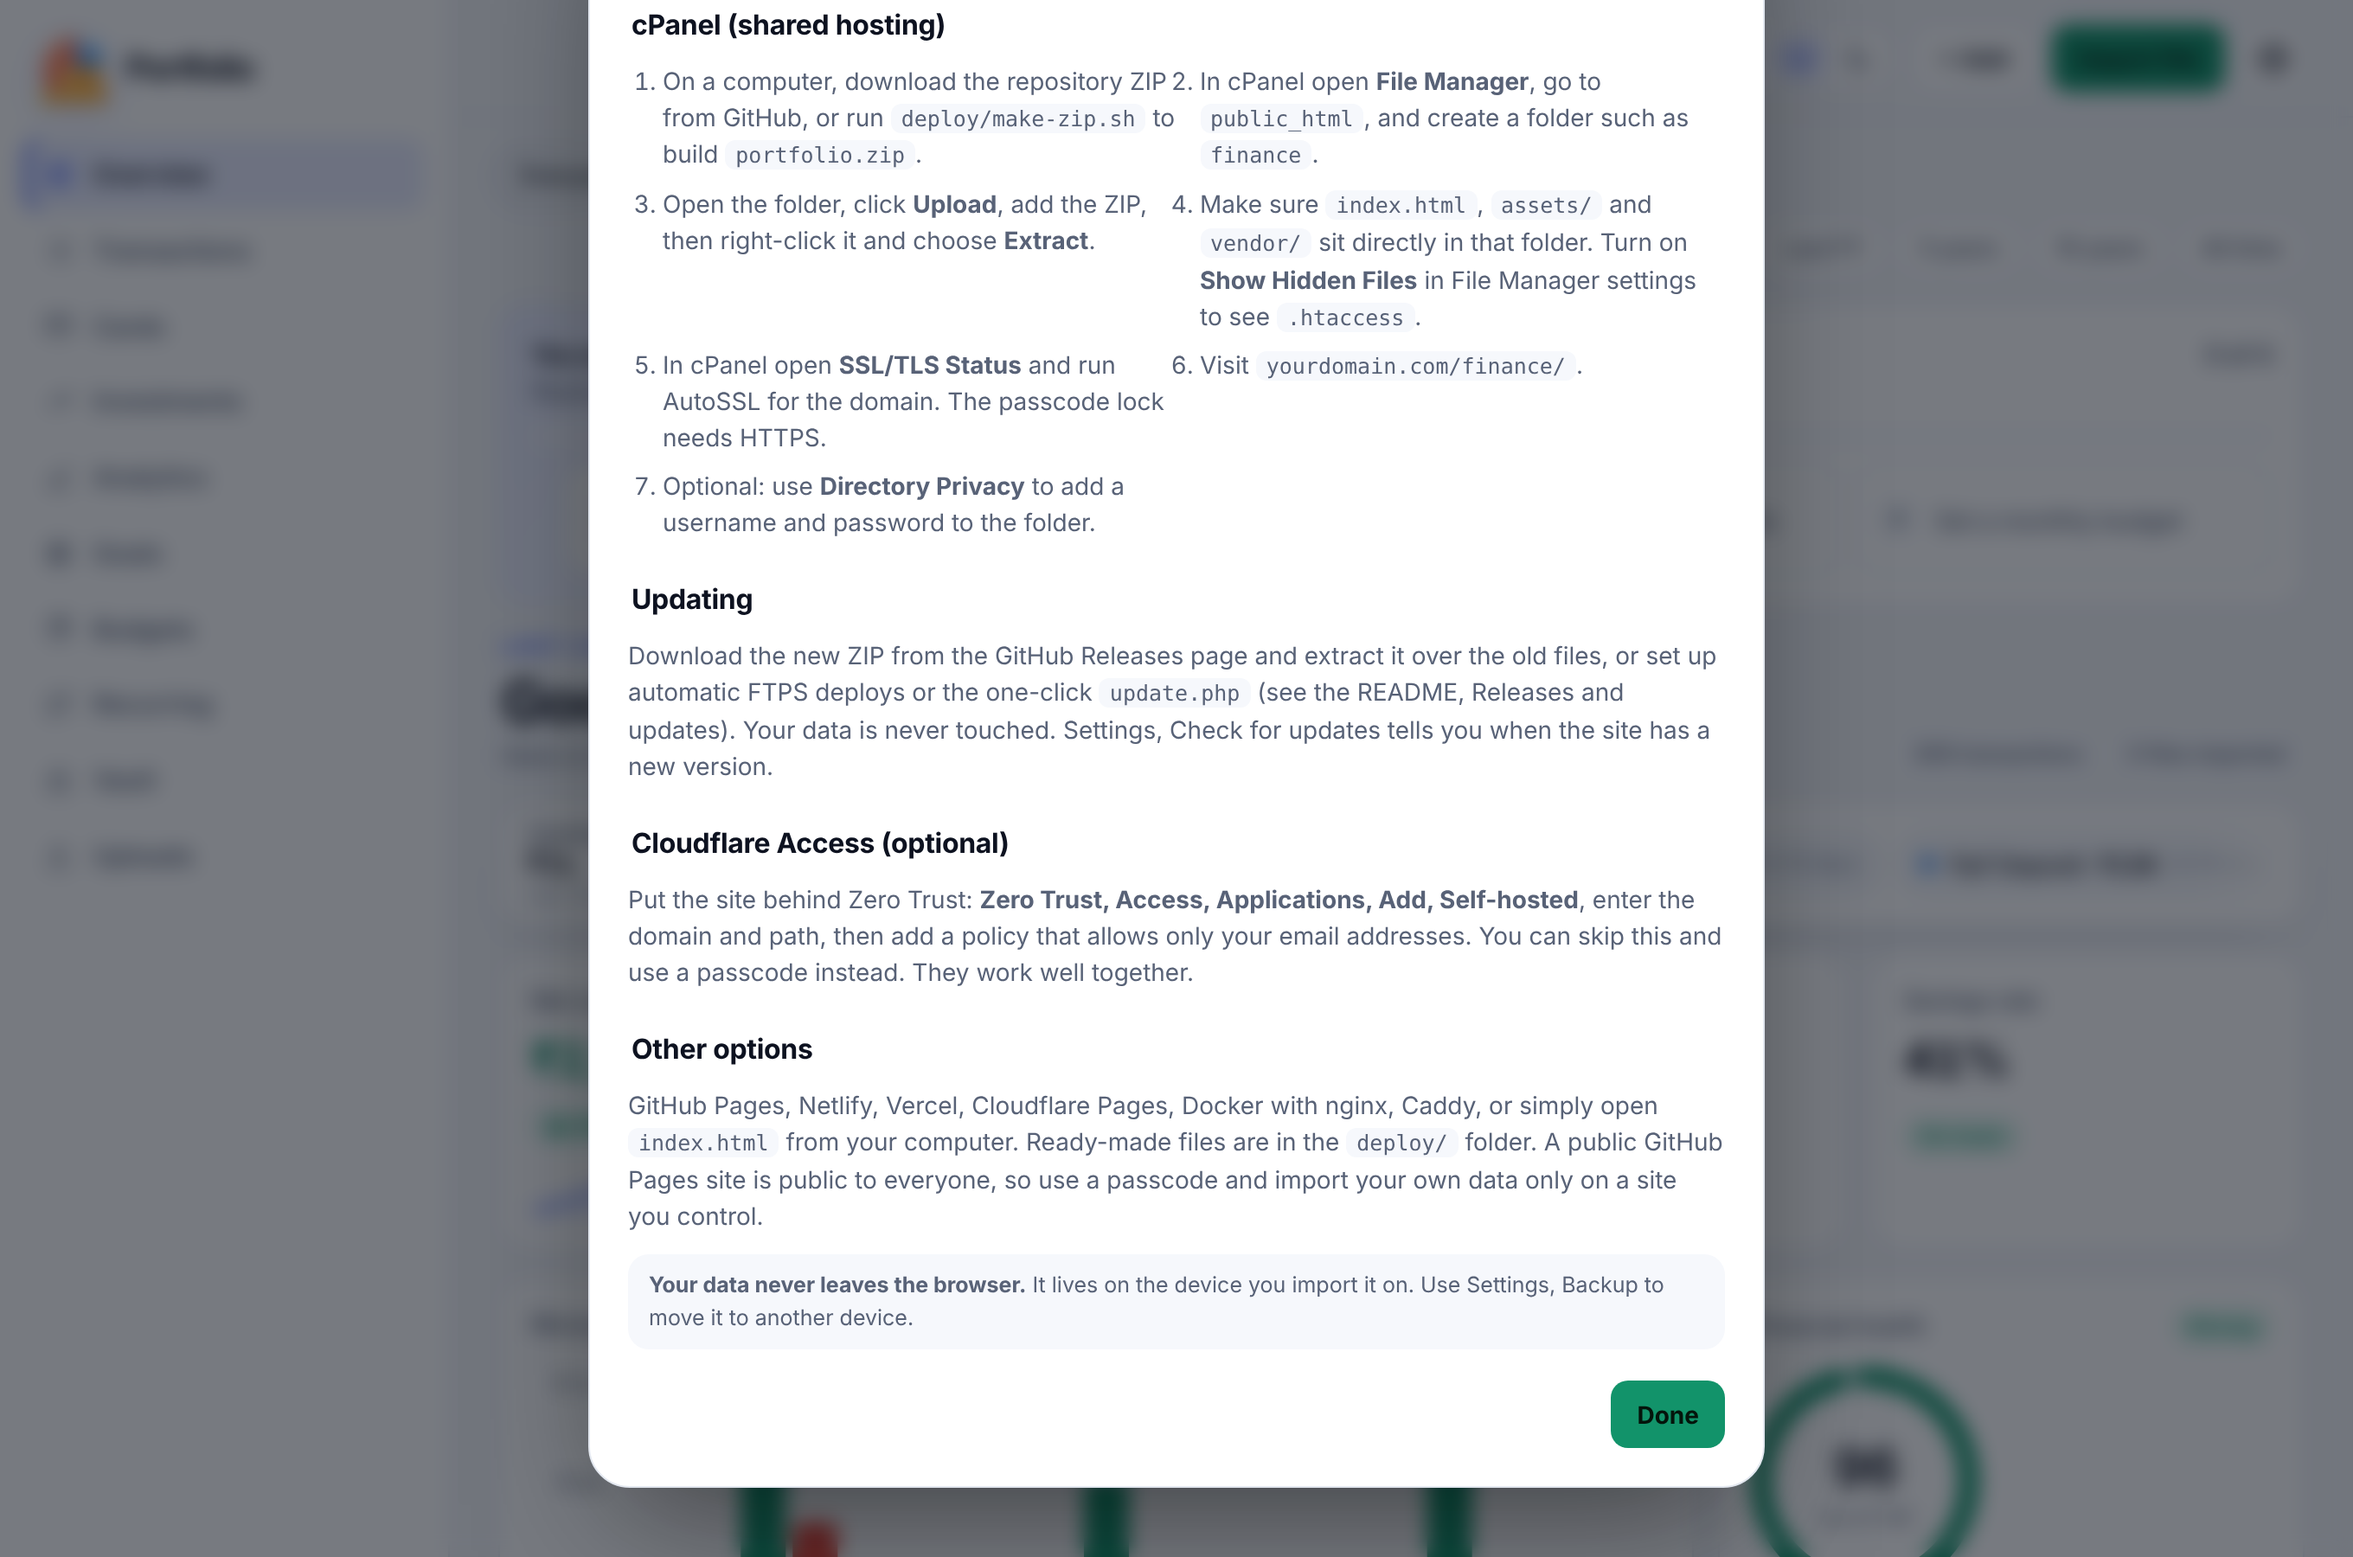
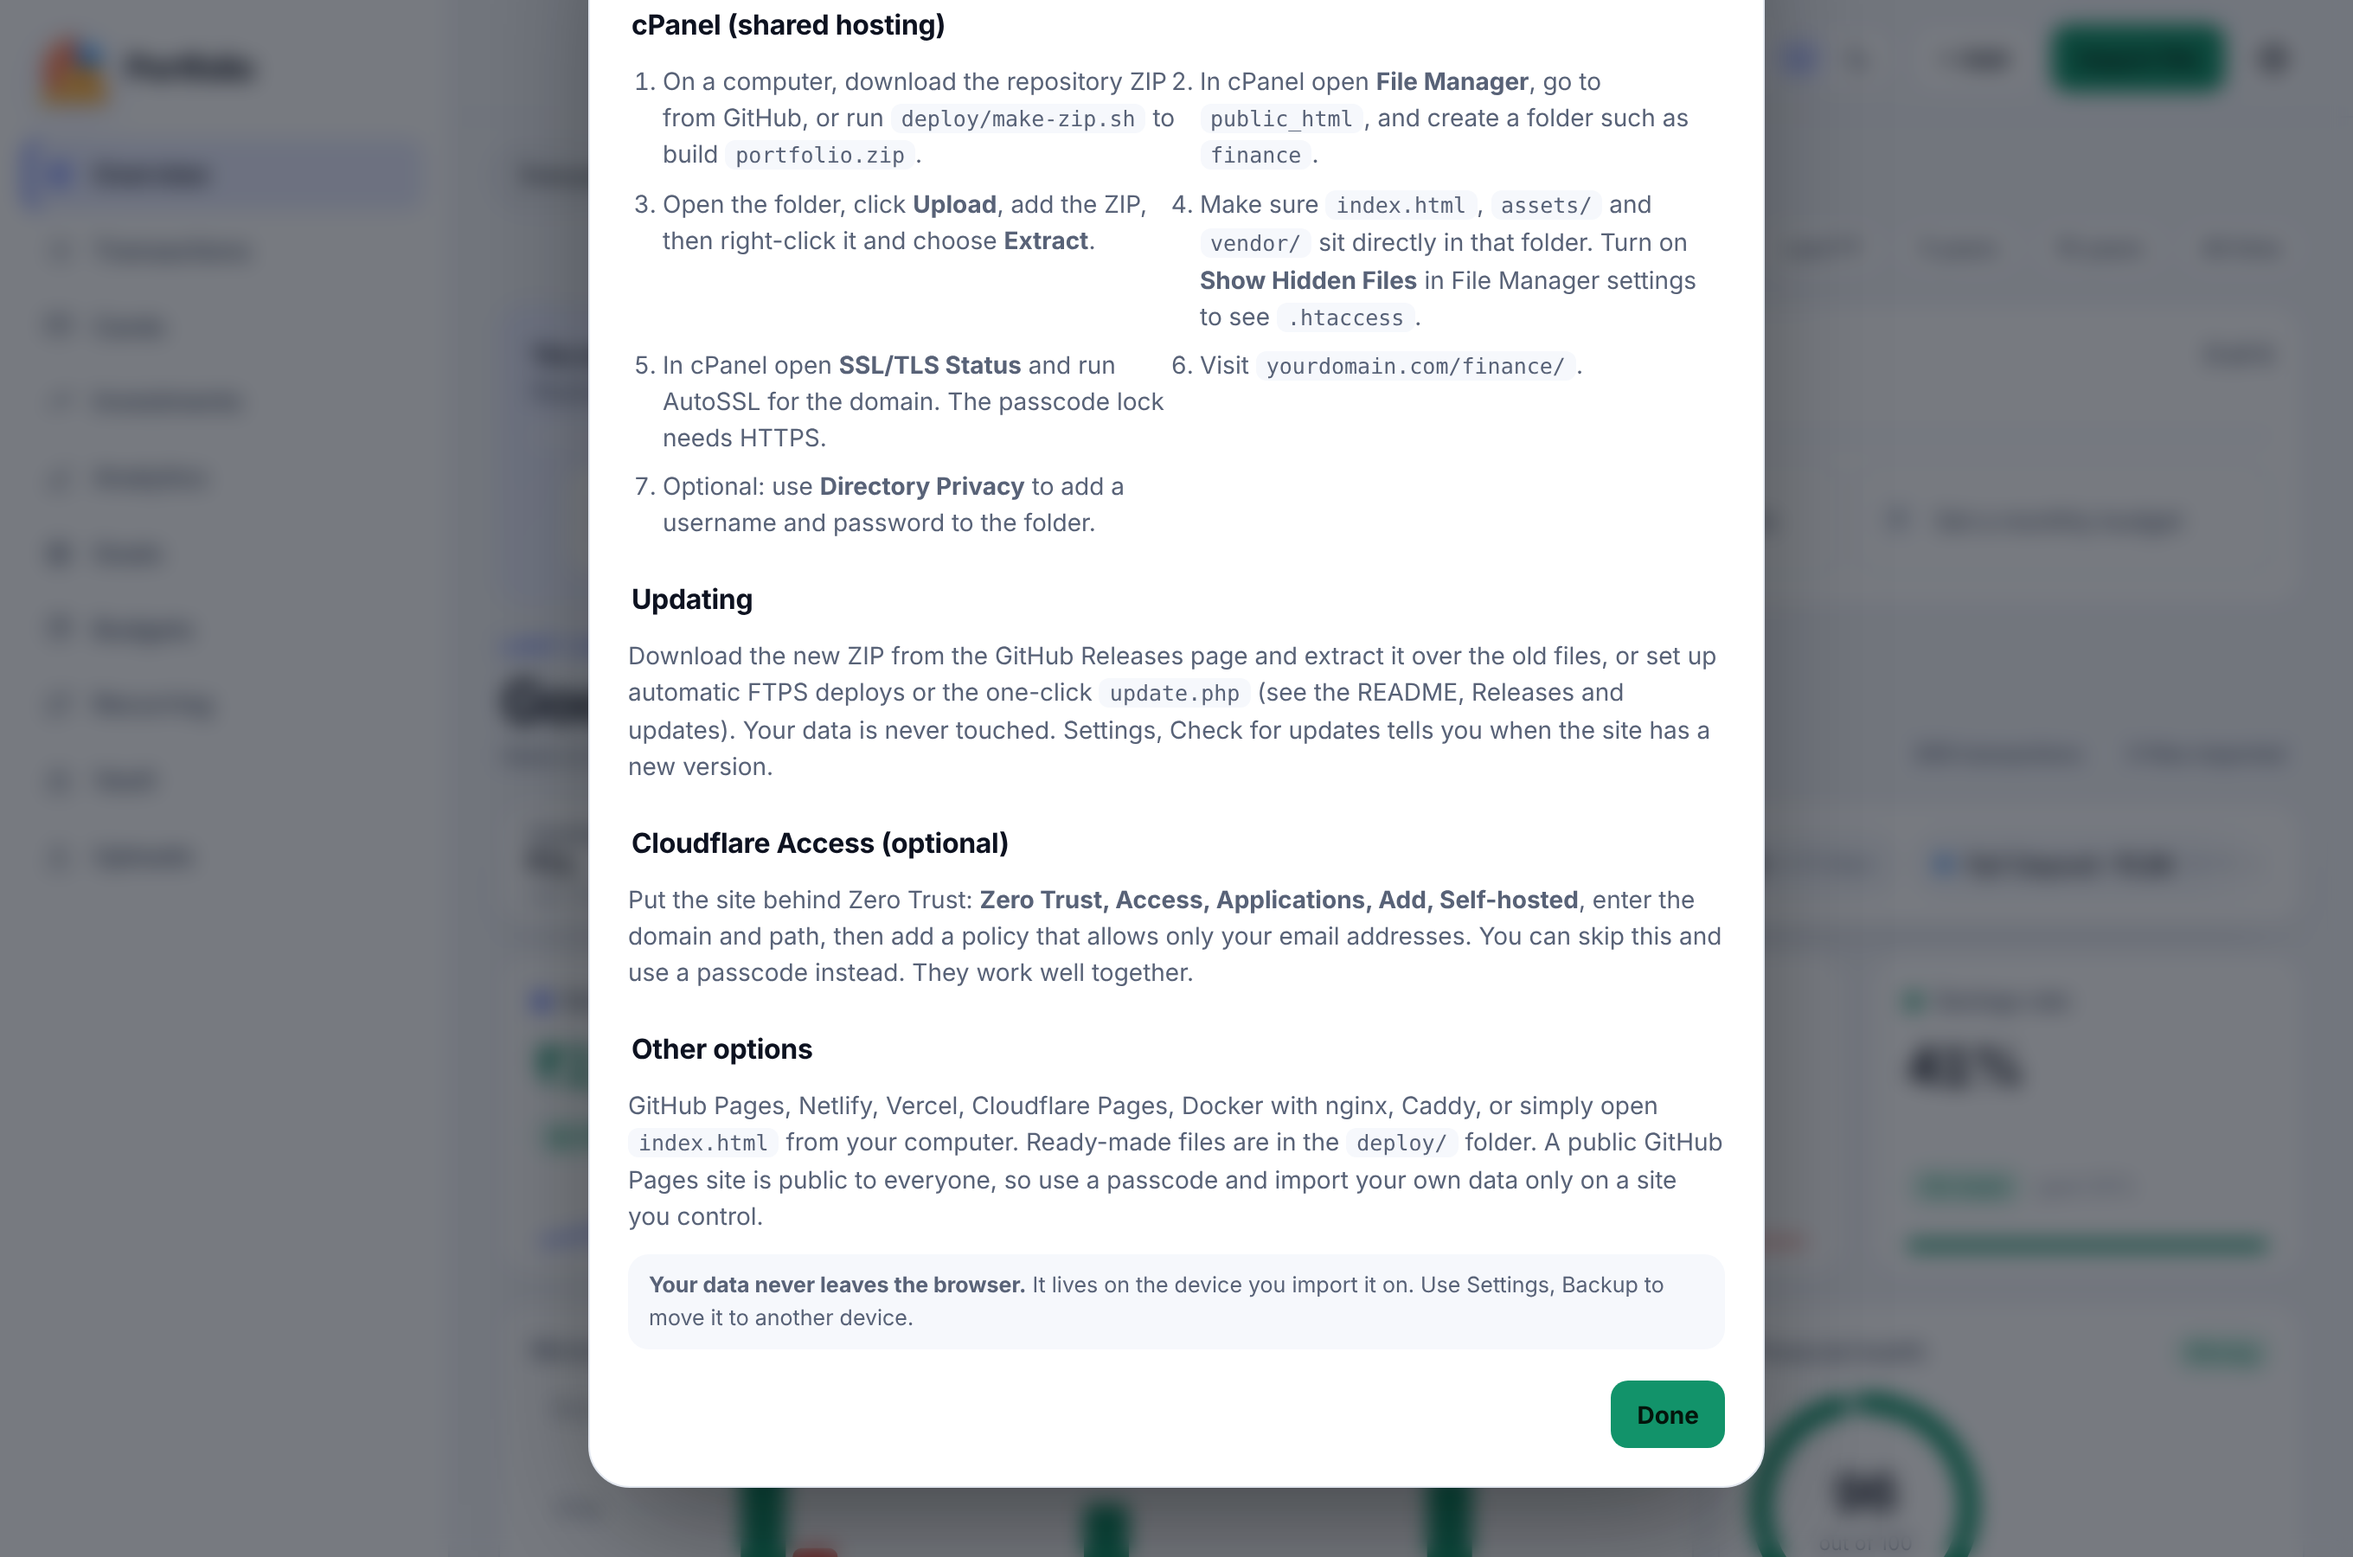
Release 0.1.0: KPI card redesign, changelog
Claude-Session: https://claude.ai/code/session_01HCoMPc6FfDdFnEnHpuawrr

diff --git a/js/app.js b/js/app.js
@@ -1,6 +1,6 @@
 (()=>{
 'use strict';
-const VERSION='0.0.1'; /* keep in sync with version.json and package.json: run deploy/bump.sh */
+const VERSION='0.1.0'; /* keep in sync with version.json and package.json: run deploy/bump.sh */
 const $=(s,r=document)=>r.querySelector(s);
 /* Neutralise spreadsheet formulas (=,+,-,@) and tabs/newlines in copied or exported cells. */
 const xcell=v=>{v=String(v??'').replace(/[\t\r\n]+/g,' ');return /^[=+\-@]/.test(v)?"'"+v:v};
@@ -232,7 +232,7 @@ function buckets(rg,a){const to=rg.to<rg.mx?rg.to:rg.mx,from=rg.from>rg.mn?rg.fr
 function nice(v){if(v<=0)return 1;const p=Math.pow(10,Math.floor(Math.log10(v))),f=v/p;return(f<=1?1:f<=2?2:f<=2.5?2.5:f<=5?5:10)*p}
 function spark(v,col){if(v.length<2)return'<span></span>';const w=110,h=34,mx=Math.max(...v),mn=Math.min(...v),sp=(mx-mn)||1;
   const pts=v.map((x,i)=>[2+i*(w-4)/(v.length-1),h-4-(x-mn)/sp*(h-8)]);const l=pts.map(p=>p.map(n=>n.toFixed(1)).join(',')).join(' ');const e=pts[pts.length-1];
-  return`<svg width="${w}" height="${h}" viewBox="0 0 ${w} ${h}" aria-hidden="true"><polygon points="2,${h} ${l} ${w-2},${h}" fill="${col}" fill-opacity=".12"/><polyline points="${l}" fill="none" stroke="${col}" stroke-width="2" stroke-linejoin="round" stroke-linecap="round"/><circle cx="${e[0]}" cy="${e[1]}" r="3" fill="${col}"/></svg>`}
+  return`<svg width="${w}" height="${h}" viewBox="0 0 ${w} ${h}" preserveAspectRatio="none" aria-hidden="true"><polygon points="2,${h} ${l} ${w-2},${h}" fill="${col}" fill-opacity=".14"/><polyline points="${l}" fill="none" stroke="${col}" stroke-width="2" stroke-linejoin="round" stroke-linecap="round"/><circle cx="${e[0]}" cy="${e[1]}" r="3" fill="${col}"/></svg>`}
 function cashChart(el,B){const W=Math.max(300,el.clientWidth),H=W>700?340:270,m={l:50,r:8,t:12,b:28};
   const mx=Math.max(1,...B.map(b=>Math.max(b.inc,b.sp))),mnv=Math.min(0,...B.map(b=>b.net));const ymax=nice(mx),ymin=mnv<0?-nice(-mnv):0;
   const y=v=>m.t+(H-m.t-m.b)*(1-(v-ymin)/(ymax-ymin));const band=(W-m.l-m.r)/B.length,bw=Math.min(26,band*.3);let s=`<svg width="${W}" height="${H}" viewBox="0 0 ${W} ${H}" role="img" aria-label="Income versus spending by period">`;
@@ -522,7 +522,7 @@ function overview(){
   const days=Math.max(1,daysBetween(rg.from>rg.mn?rg.from:rg.mn,rg.to<rg.mx?rg.to:rg.mx)+1);
   const rate=c.inc>0?c.net/c.inc*100:0;const cats=byCat(cur),catTot=cats.reduce((a,x)=>a+x[1],0);
   const hv=S.hold.filter(inMember),worth=hv.reduce((a,h)=>a+h.value,0),invd=hv.reduce((a,h)=>a+h.invested,0);
-  const kpi=(l,v,d,sp,col,sub,x='')=>`<div class="card kpi s3 ${x}"><div class="lbl">${l}</div><div class="val num">${v}</div><div class="foot"><span>${d||`<span class="faint">${sub||''}</span>`}</span>${sp?spark(sp,col):''}</div></div>`;
+  const kpi=(l,v,d,sp,col,sub,x='')=>`<div class="card kpi s3 ${x}" style="--kc:${col||'var(--faint)'}"><div class="lbl"><i class="kd"></i>${l}</div><div class="val num">${v}</div><div class="foot"><span>${d||`<span class="faint">${sub||''}</span>`}</span>${sp?spark(sp,col):''}</div></div>`;
   const rtone=rate>=20?'good':rate>=5?'warn':'bad';
   const cardEl=`<div class="card s8"><h3>Money in vs out <span class="legend"><span><i style="background:var(--in)"></i>Income</span><span><i style="background:var(--out)"></i>Spending</span><span><i style="background:var(--accent)"></i>Net</span></span></h3><div id="cash"></div></div>`;
   const mems=S.members.map(m=>[m.name,sums(cur.filter(t=>t.m===m.id)).sp,m.color]).filter(x=>x[1]>0);const mt=mems.reduce((a,x)=>a+x[1],0);
@@ -532,7 +532,7 @@ function overview(){
     ${kpi('Net cash flow',`<span class="${c.net>=0?'in':'out'}">${tick(c.net)}</span>`,hasPrev?dChip(c.net,p.net,false)+' <span class="faint">vs prev.</span>':'',B.map(b=>b.net),'var(--accent)',rg.label,'beam')}
     ${kpi('Income',tick(c.inc),hasPrev?dChip(c.inc,p.inc,false)+' <span class="faint">vs prev.</span>':'',B.map(b=>b.inc),'var(--in)',rg.label)}
     ${kpi('Spending',tick(c.sp),hasPrev?dChip(c.sp,p.sp,true)+' <span class="faint">vs prev.</span>':'',B.map(b=>b.sp),'var(--out)',`≈ ${money(c.sp/days)} a day`)}
-    ${kpi('Savings rate',tick(rate,'p'),`<span class="chip ${rtone}">${rate>=20?'On track':rate>=5?'Could be higher':'Overspending'}</span>`,null,null)}
+    ${kpi('Savings rate',tick(rate,'p'),`<span class="chip ${rtone}">${rate>=20?'On track':rate>=5?'Could be higher':'Overspending'}</span><span class="faint">goal 20%</span><span class="meter ${rtone}"><i style="width:${clamp(rate/20*100)}%"></i></span>`,null,rate>=20?'var(--in)':rate>=5?'var(--warn)':'var(--out)')}
     ${cardEl}${healthCard(health(cur,c,rate,days))}
     <div class="card s4"><h3>Where it went</h3><div class="split" style="grid-template-columns:1fr"><div class="donut" data-donut></div></div>
       <div class="rows" style="margin-top:10px">${cats.slice(0,6).map(([n,v])=>`<button class="lrow" data-act="cat" data-v="${esc(n)}" data-seg="${esc(n)}"><span class="dot" style="--c:${CC[n]}"></span><span class="nm">${esc(n)}</span><span class="num">${money(v)}</span><span class="pc">${pc(v,catTot)}%</span></button>`).join('')||'<div class="muted">No spending in this period.</div>'}</div></div>

diff --git a/css/app.css b/css/app.css
@@ -327,3 +327,17 @@ body{background-image:none}
 .hero h1{font-size:clamp(26px,3.4vw,34px)}
 .kpi .val{font-weight:650}
 .card .foot{flex-wrap:wrap}
+/* KPI cards */
+.kpi{padding:18px 20px 14px;display:flex;flex-direction:column;gap:2px}
+.kpi .lbl{display:flex;align-items:center;gap:8px;font-size:13px;font-weight:550;color:var(--muted)}
+.kpi .kd{width:8px;height:8px;border-radius:3px;background:var(--kc);flex:none;box-shadow:0 0 0 3px color-mix(in srgb,var(--kc) 18%,transparent)}
+.kpi .val{font-size:30px;line-height:1.15;margin:8px 0 10px;letter-spacing:-.03em}
+.kpi .foot{flex-direction:column;align-items:stretch;justify-content:flex-start;gap:10px;min-height:0;margin-top:auto}
+.kpi .foot>span:first-child{display:flex;align-items:center;gap:8px;white-space:nowrap;font-size:12.5px;min-height:24px}
+.kpi .foot svg{width:100%;height:44px;display:block;overflow:visible}
+.kpi .foot svg polyline{vector-effect:non-scaling-stroke;stroke-width:2}
+.kpi .foot svg circle{display:none}
+.kpi .foot svg polygon{fill-opacity:.1}
+.kpi .foot>span:first-child{flex-wrap:wrap}
+.meter{flex-basis:100%;height:6px;border-radius:99px;background:var(--surface-2);overflow:hidden;margin-top:12px;position:relative}
+.meter i{position:absolute;left:0;top:0;bottom:0;border-radius:99px;background:var(--kc)}

diff --git a/CHANGELOG.md b/CHANGELOG.md
@@ -4,7 +4,9 @@ All notable changes are listed here. The format follows [Keep a Changelog](https
 
 ## [Unreleased]
 
+## [0.1.0] - 2026-11-22
 ### Added
+- Redesigned KPI cards on Overview: colour key, change versus the previous period, full-width trend line, and a savings-rate meter against a 20% goal.
 - Multi-account bank PDFs (checked against a real ICICI annual statement): savings, PPF and other account sections are split by account, narrations that wrap over several lines are re-attached to the right row, and every section is reconciled against the running balance and the statement totals before import.
 - Fixed deposits and PPF balances listed in a statement update Investments automatically.
 - Statement dialog shows per-account results and flags files that were already imported.
